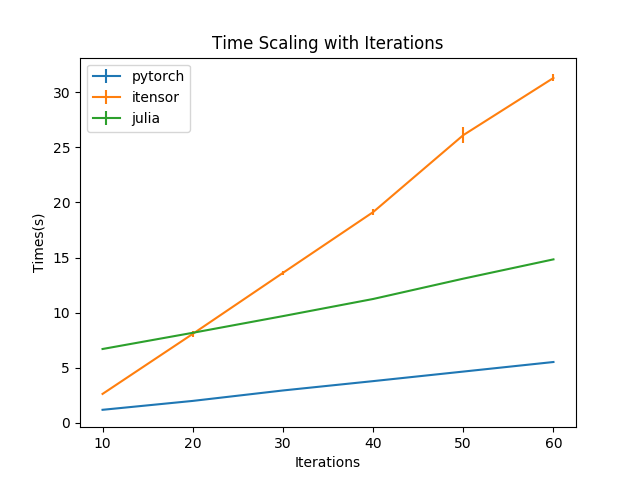
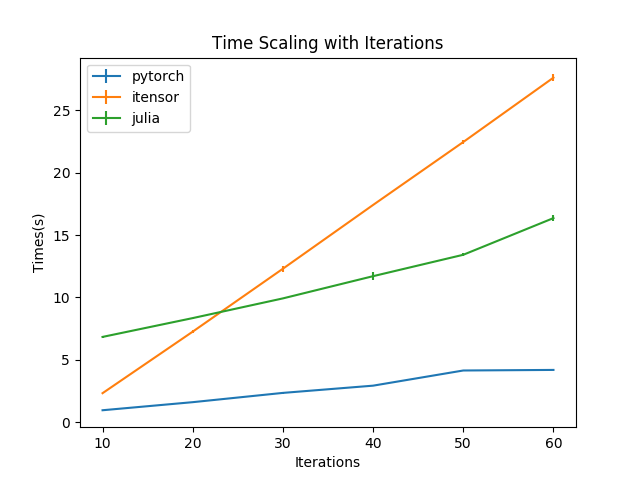
update new result

diff --git a/readme.md b/readme.md
@@ -6,9 +6,9 @@ The result is
 
 | Implement | Time(average over 10 runs) |
 | --------- | -------------------------- |
-| pytorch   | 1.61s                      |
-| julia     | 8.99s                      |
-| itensor   | 7.37s                      |
+| pytorch   | 1.73s                      |
+| julia     | 9.31s                      |
+| itensor   | 9.75s                      |
 
 The scaling curve with iterations is
 
